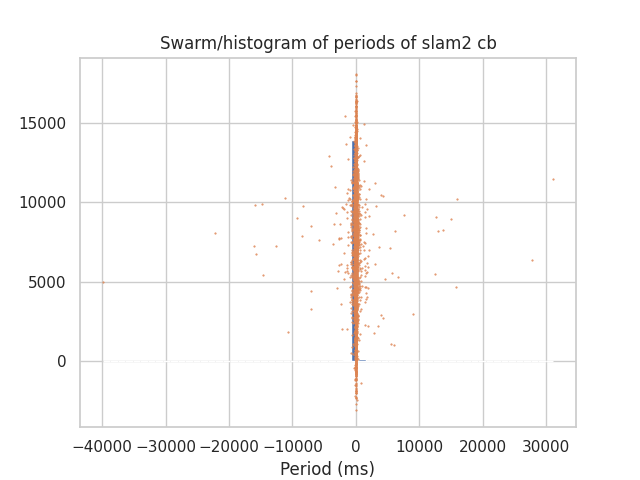
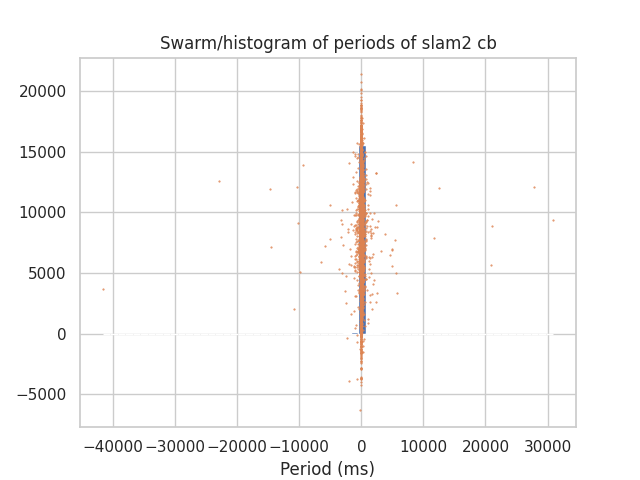
sponza run 2 output

diff --git a/output/account_summaries.md b/output/account_summaries.md
@@ -1,16 +1,16 @@
 | account_name           |   cpu_duration_mean |   cpu_duration_sum |   cpu_duration_std |   wall_duration_mean |   wall_duration_sum |   wall_duration_std |   period_mean |   period_std |            count |
 |:-----------------------|--------------------:|-------------------:|-------------------:|---------------------:|--------------------:|--------------------:|--------------:|-------------:|-----------------:|
-| hologram iter          |          7.88521    |          1293.17   |         0.653596   |         374.223      |         61372.6     |          57.5042    |  374.517      |   58.4933    |    164           |
-| zed_imu_thread iter    |          0.0644553  |          2060.38   |         0.503168   |           0.0678634  |          2169.32    |           0.532922  |    0.017687   |  350.836     |  31966           |
-| zed_camera_thread iter |         11.4784     |         28730.3    |         4.49093    |          15.1729     |         37977.8     |           5.11724   |    0.247191   | 1265.3       |   2503           |
-| timewarp_gl iter       |          4.51421    |          9308.31   |         2.72101    |          30.1199     |         62107.3     |          14.5512    |   -0.0584398  | 1372.79      |   2062           |
-| audio_component iter   |          3.95164    |         11953.7    |         0.306534   |           5.93801    |         17962.5     |           3.2092    |    0.0378736  | 1152.98      |   3025           |
-| hologram skip          |          0.00206006 |             2.1095 |         0.00909169 |           0.00218685 |             2.23933 |           0.0115285 |    0.00446676 |    0.0169095 |   1024           |
-| zed_imu_thread skip    |          0.00362181 |          4990.54   |         0.197344   |           0.00404243 |          5570.13    |           0.216232  |    0.00748326 |    1.0385    |      1.37792e+06 |
-| zed_camera_thread skip |          2.46151    |           147.691  |         0.369353   |          13.0657     |           783.944   |           9.19231   | -134.16       | 1185.16      |     60           |
-| timewarp_gl skip       |          0.00211144 |           434.877  |         0.188201   |           0.00253053 |           521.192   |           0.243264  |    0.303392   |    3.67896   | 205962           |
-| audio_component skip   |          0.226273   |           673.615  |         0.0812187  |          15.0177     |         44707.8     |           3.99067   |   -0.246036   | 1159.14      |   2977           |
-| slam2 cb               |          2.56319    |         36335.8    |        10.1916     |           4.44736    |         63045.8     |          17.1678    |    4.48653    |   17.2719    |  14176           |
-| runtime check_qs       |          0.0694954  |          1525.08   |         9.64104    |           0.0764387  |          1677.45    |           9.79486   |    2.9805     |   18.5015    |  21945           |
+| hologram iter          |          7.82201    |          1298.45   |          0.630124  |         365.709      |          60707.7    |          49.4061    |  366.922      |    51.6115   |    166           |
+| zed_imu_thread iter    |          0.0535694  |          1714.17   |          0.445688  |           0.0576906  |           1846.04   |           0.490218  |    0.0204424  |   349.11     |  31999           |
+| zed_camera_thread iter |         11.0052     |         26632.6    |          4.49877   |          15.0629     |          36452.3    |           5.21132   |   -0.0964891  |  1282.81     |   2420           |
+| timewarp_gl iter       |          5.172      |         11761.1    |          2.87218   |          26.8992     |          61168.7    |          12.7615    |    0.1448     |  1279.98     |   2274           |
+| audio_component iter   |          4.29838    |         12796.3    |          0.48243   |           6.39522    |          19038.6    |           3.22803   |   -0.132427   |  1153.01     |   2977           |
+| hologram skip          |          0.00192907 |            96.7931 |          0.0692194 |           0.00197607 |             99.1511 |           0.0724809 |    0.00454547 |     0.126265 |  50176           |
+| zed_imu_thread skip    |          0.00396391 |          5530.62   |          0.225728  |           0.00466107 |           6503.32   |           0.269115  |    0.00925529 |     1.71966  |      1.39524e+06 |
+| zed_camera_thread skip |          2.57611    |           146.838  |          0.470208  |          11.7625     |            670.46   |          11.6296    | -175.805      |  1454.27     |     57           |
+| timewarp_gl skip       |          0.00341997 |           506.207  |          0.197955  |           0.00482761 |            714.559  |           0.319735  |    0.415219   |     3.98832  | 148015           |
+| audio_component skip   |          0.216791   |           645.387  |          0.0791837 |          14.5645     |          43358.4    |           3.86283   |    0.123906   |  1138.85     |   2977           |
+| slam2 cb               |          2.12109    |         33557.8    |          8.64212   |           3.94358    |          62391.4    |          15.4911    |    3.97864    |    15.5904   |  15821           |
+| runtime check_qs       |          0.110391   |          2622.33   |         15.4426    |           0.122142   |           2901.48   |          16.2226    |    2.76621    |    20.7871   |  23755           |
 
 All times are in milliseconds unless otherwise mentioned.

diff --git a/output/timewarp_fence.md b/output/timewarp_fence.md
@@ -1,5 +1,5 @@
 | account_name      |   cpu_duration_mean |   cpu_duration_sum |   cpu_duration_std |   wall_duration_mean |   wall_duration_sum |   wall_duration_std |   period_mean |   period_std |   count |
 |:------------------|--------------------:|-------------------:|-------------------:|---------------------:|--------------------:|--------------------:|--------------:|-------------:|--------:|
-| timewarp_gl fence |             2.45163 |            5072.42 |             1.8117 |               5.4733 |             11324.2 |             5.31705 |       30.1177 |      15.5913 |    2069 |
+| timewarp_gl fence |             2.87123 |            6529.18 |            1.90057 |              5.54673 |             12613.3 |             5.04102 |       26.9948 |      13.7401 |    2274 |
 
 All times are in milliseconds unless otherwise mentioned.
